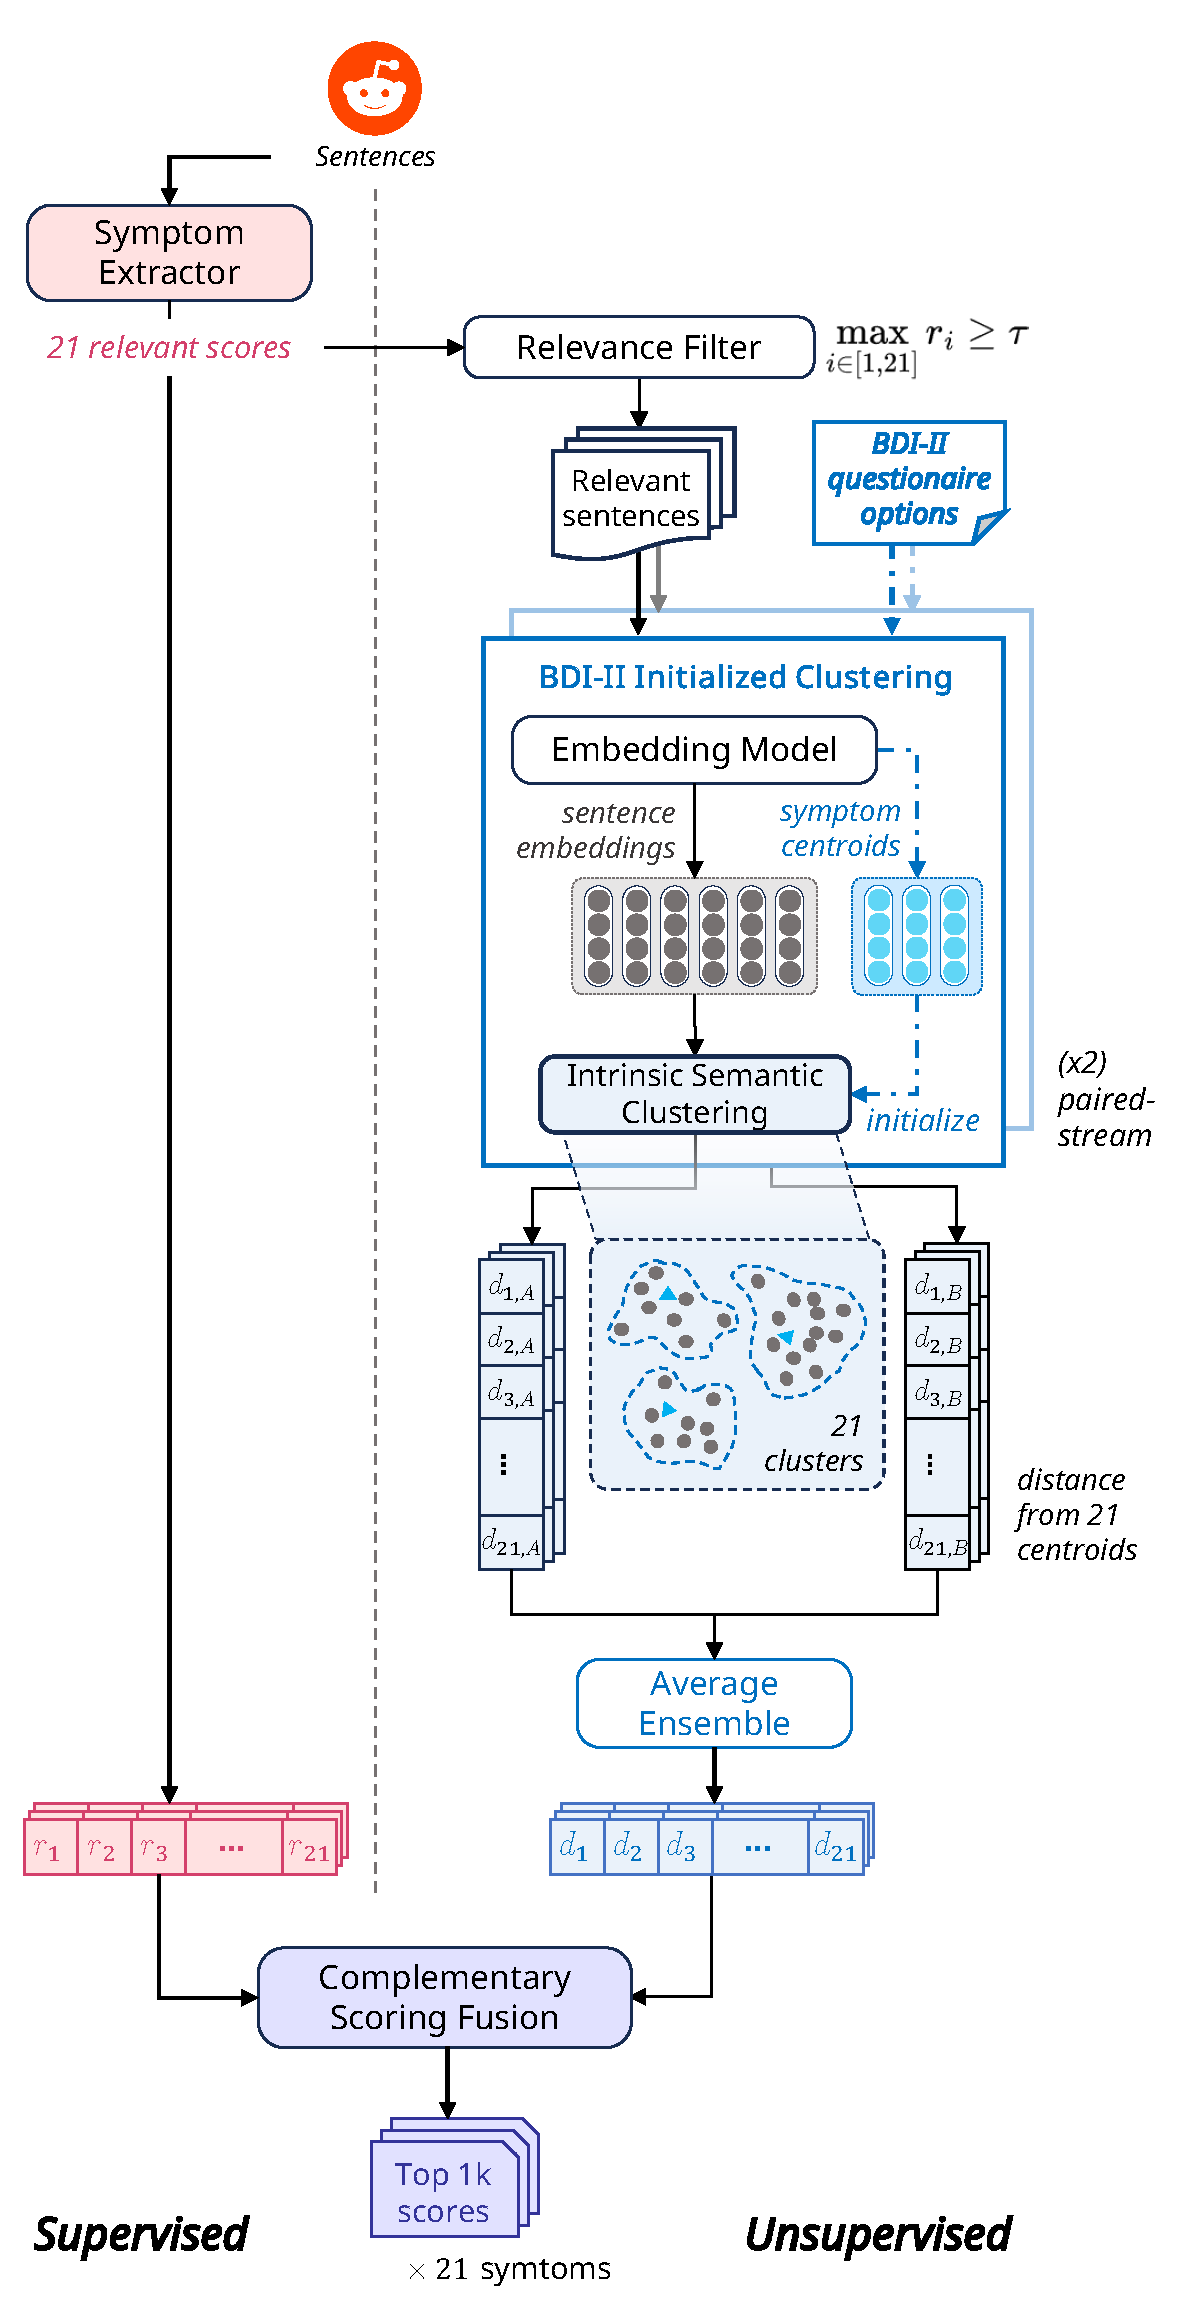
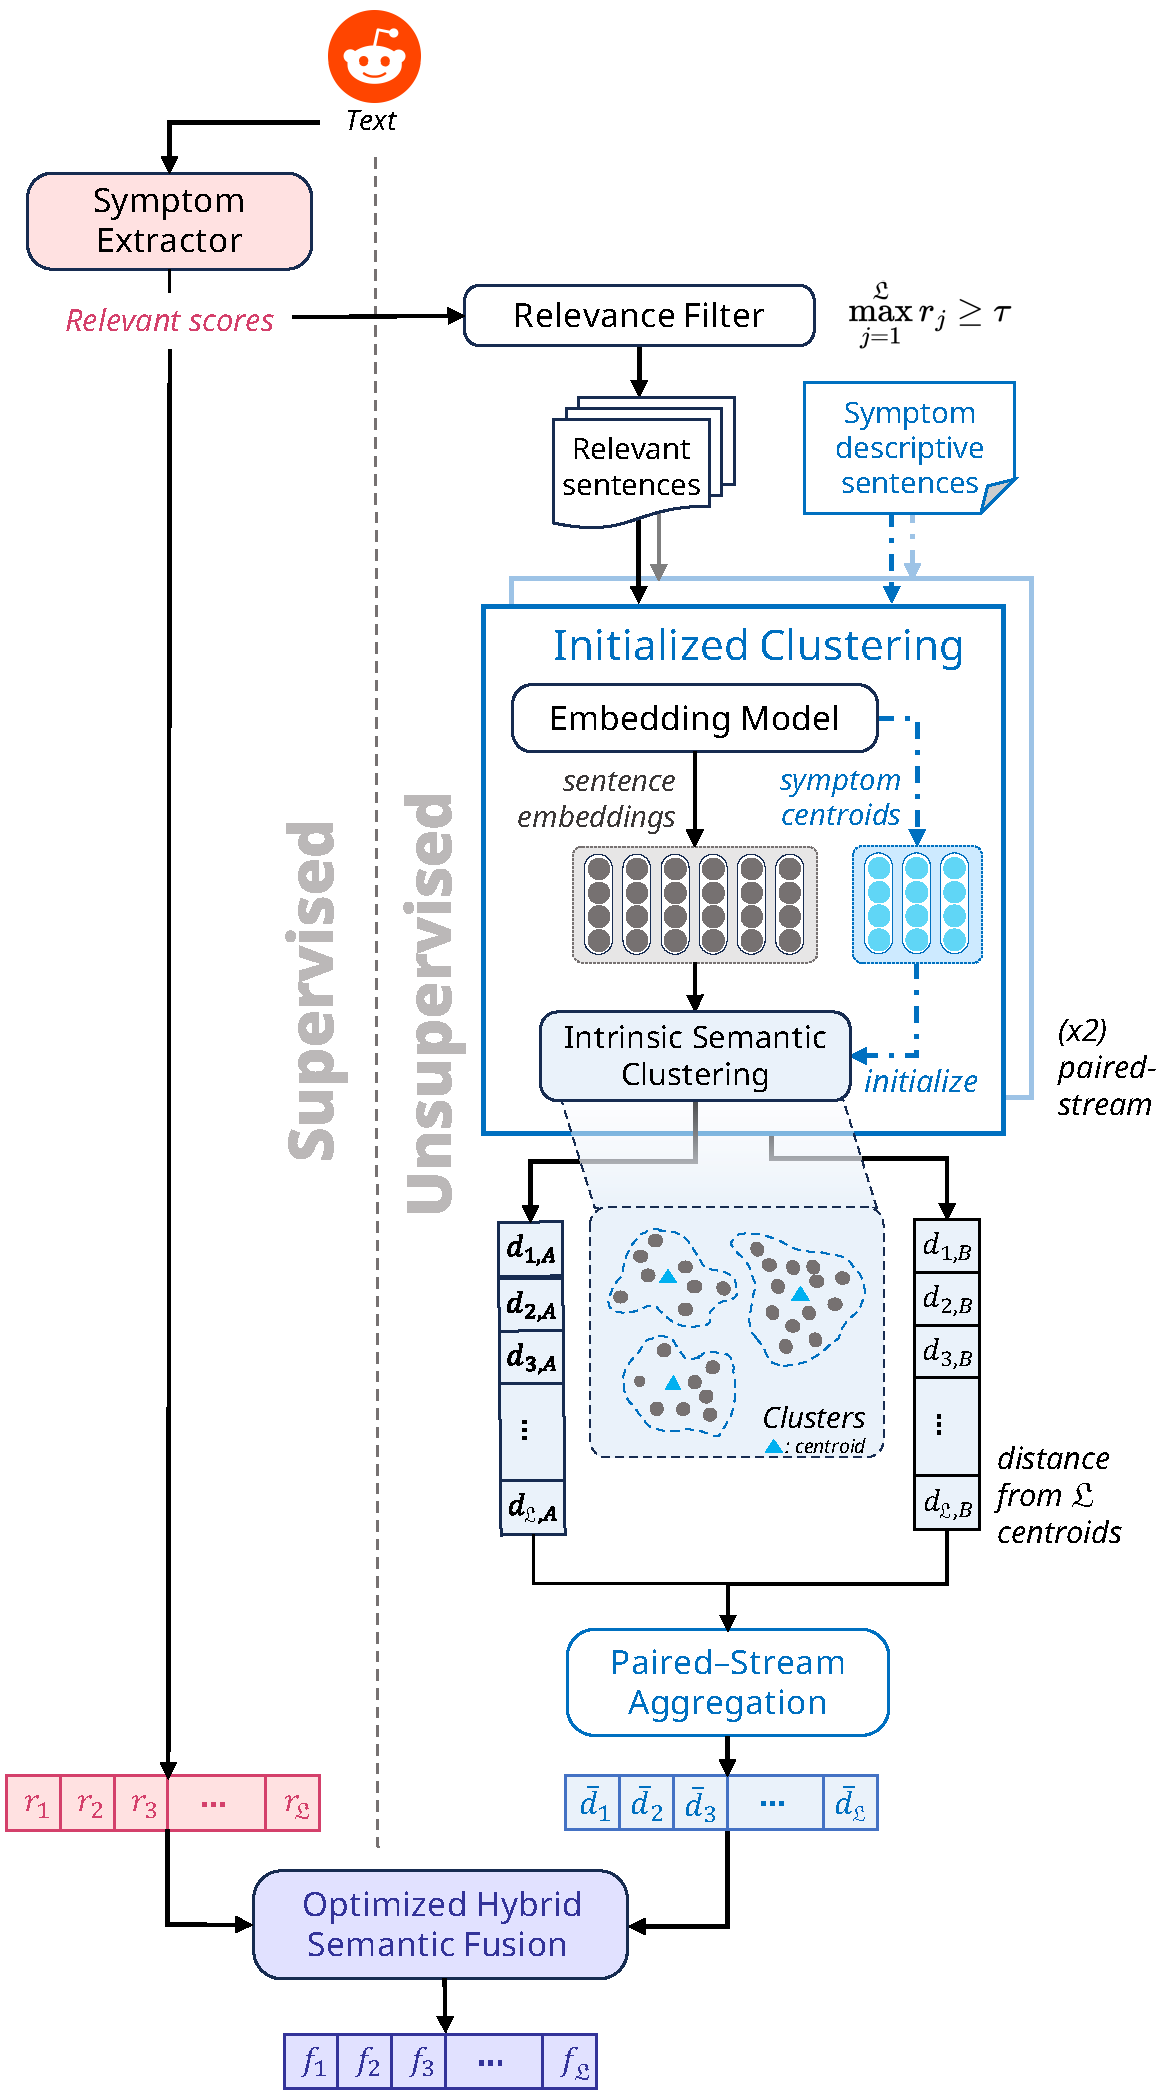
update README

Changed region(s): [[0.0, 0.0, 0.9914, 1.0], [0.6196, 0.96, 0.8675, 0.9909], [0.3718, 0.1239, 0.4028, 0.1548]]

diff --git a/README.md b/README.md
@@ -1,19 +1,38 @@
-# Hysefus: Hybrid Semantic Fusion for Ranking Depression Symptoms
+# HOPE: Hybrid Optimized Parallel Encoding for Depression Symptom Detection
 
-This repository contains the official implementation of **Hysefus**, a hybrid semantic fusion framework for ranking depression symptoms on social media, as described in our paper for the CLEF eRisk 2025 Task 1.
-
+This repository contains the official implementation of **HOPE** (Hybrid Optimized Parallel Encoding), a novel framework for detecting and ranking depression symptoms in social media text.
 
 ## Methodology Overview
 
-Our model, **Hysefus**, formulates the task as a multi-label sentence classification problem. It assigns relevance scores to sentence-symptom pairs based on the 21 BDI-II depression categories. The architecture consists of three main components:
-
-1.  **Supervised Depressive Symptom Extractor (`/extractor`)**: Leverages a fine-tuned `DepRoBERTa` model to generate initial symptom relevance scores from labeled data. This captures nuanced depressive language patterns.
-
-2.  **Unsupervised Intrinsic Semantic Clustering (`/clustering`)**: Applies BDI-II symptom-initialized K-means clustering on unlabeled test data. This module uses a paired stream of `nomic-embed-text-v1.5` and `modernbert-embed-base` to generate robust semantic embeddings, mitigating domain shift and individual model bias. It includes a relevance filter to focus clustering on symptom-relevant sentences.
-
-3.  **Complementary Scoring Fusion (`/fusion.py`)**: Harmonizes the supervised and unsupervised scores using a hybrid strategy of additive and maximum fusion, producing a robust final ranking.
-
+HOPE addresses the inherent challenges through a three-component architecture:
 ![Model Architecture](figures/model.png)
+
+### 1. Supervised Symptom Extractor
+
+Leverages **DepRoBERTa** to capture depressive patterns from labeled training data and generate initial relevance scores:
+
+- **Base Model**: DepRoBERTa, a RoBERTa model pre-trained on mental health forum data
+- **Task**: Multi-label sentence classification for depression symptom categories
+- **Output**: Initial symptom-sentence relevance scores from supervised learning
+
+### 2. Unsupervised Intrinsic Semantic Clustering
+
+Employs few-shot-enhanced symptom-initialized K-means clustering with paired-stream BERT embeddings to extract intrinsic semantic relationships directly from unlabeled testing inputs:
+
+- **Paired-Stream Embeddings**: Combines `nomic-embed-text-v1.5` and `modernbert-embed-base` for robust semantic representations
+- **Symptom Initialization**: Cluster centroids initialized using BDI-II symptom descriptions
+- **Few-Shot Enhancement**: Incorporates few-shot learning to improve cluster quality
+- **Output**: Unsupervised symptom-sentence similarity scores based on semantic clustering
+
+### 3. Optimized Hybrid Semantic Fusion
+
+Leverages the dual-view of supervised and unsupervised scores via a learnable MLP module:
+
+- **Learnable Fusion**: MLP-based fusion mechanism that learns optimal combination of both views
+- **Complementary Integration**: Exploits complementary strengths of supervised patterns and unsupervised semantics
+- **Output**: Final unified relevance scores yielding more stable and task-agnostic predictions
+
+
 
 ## Repository Structure
 
@@ -30,85 +49,3 @@ Our model, **Hysefus**, formulates the task as a multi-label sentence classifica
 ├── requirements.txt      # Python dependencies
 └── README.md             # This file
 ```
-
-## Setup and Installation
-
-1.  **Clone the repository:**
-    ```bash
-    git clone https://github.com/your-repo/hysefus.git
-    cd hysefus
-    ```
-
-2.  **Create a virtual environment and install dependencies:**
-    ```bash
-    python -m venv venv
-    source venv/bin/activate
-    pip install -r requirements.txt
-    ```
-
-3.  **Download necessary models:**
-    The framework relies on several pre-trained models from Hugging Face. They will be downloaded automatically on the first run. Ensure you have a stable internet connection.
-
-## Running the Pipeline
-
-Follow these steps to preprocess data, run the models, and generate the final submission file.
-
-### 1. Data Preparation
-
-First, you need to obtain the eRisk 2025 Task 1 dataset. Please request access from the organizers at [https://erisk.irlab.org/eRisk2025.html](https://erisk.irlab.org/eRisk2025.html).
-
-Once you have received the data, place the raw TREC-formatted files into the `data/erisk25-t1-dataset` directory.
-
-After setting up the data, you can convert the raw TREC-formatted data into a more accessible CSV format.
-
-```bash
-python -m data_processing.trec_loader
-```
-
-Next, create the labeled dataset with corresponding text, which will be used for training and evaluation.
-
-```bash
-python create_labeled_data.py
-```
-
-### 2. Supervised Symptom Extraction
-
-Run the supervised extractor to generate initial relevance scores for each sentence. Make sure to provide the path to your fine-tuned model checkpoint.
-
-```bash
-python -m extractor.infer --checkpoint_path path/to/your/checkpoint
-```
-This saves the predictions in `outputs/extractor_predictions/`.
-
-### 3. Unsupervised Semantic Clustering
-
-First, filter out sentences with low relevance scores to reduce noise for the clustering module.
-
-```bash
-python -m clustering.relevant_filter
-```
-This creates `data/labels/relevant_predictions.csv`.
-
-Next, run the unsupervised symptom sentence mapping. This script will process the data with both `nomic-embed-text-v1.5` and `modernbert-embed-base` and save the outputs.
-
-```bash
-python -m clustering.kmeans
-```
-
-### 4. Score Fusion
-
-Fuse the scores from the supervised and unsupervised modules to get the final rankings. You can provide a custom run name if desired.
-
-```bash
-python fusion.py --run_name my_hysefus_run
-```
-This will generate the final submission file (e.g., `runs/my_hysefus_run.txt`) in the required TREC format.
-
-### 5. Evaluation
-
-To evaluate the generated run file against the ground truth, use the `evaluate.py` script.
-
-```bash
-python evaluate.py --gold_file path/to/gold/qrels --run_file path/to/your/run/file
-```
-The script will print the evaluation metrics (MAP, R-Prec, NDCG, P, R, F1) and save them to `results.tsv`.
